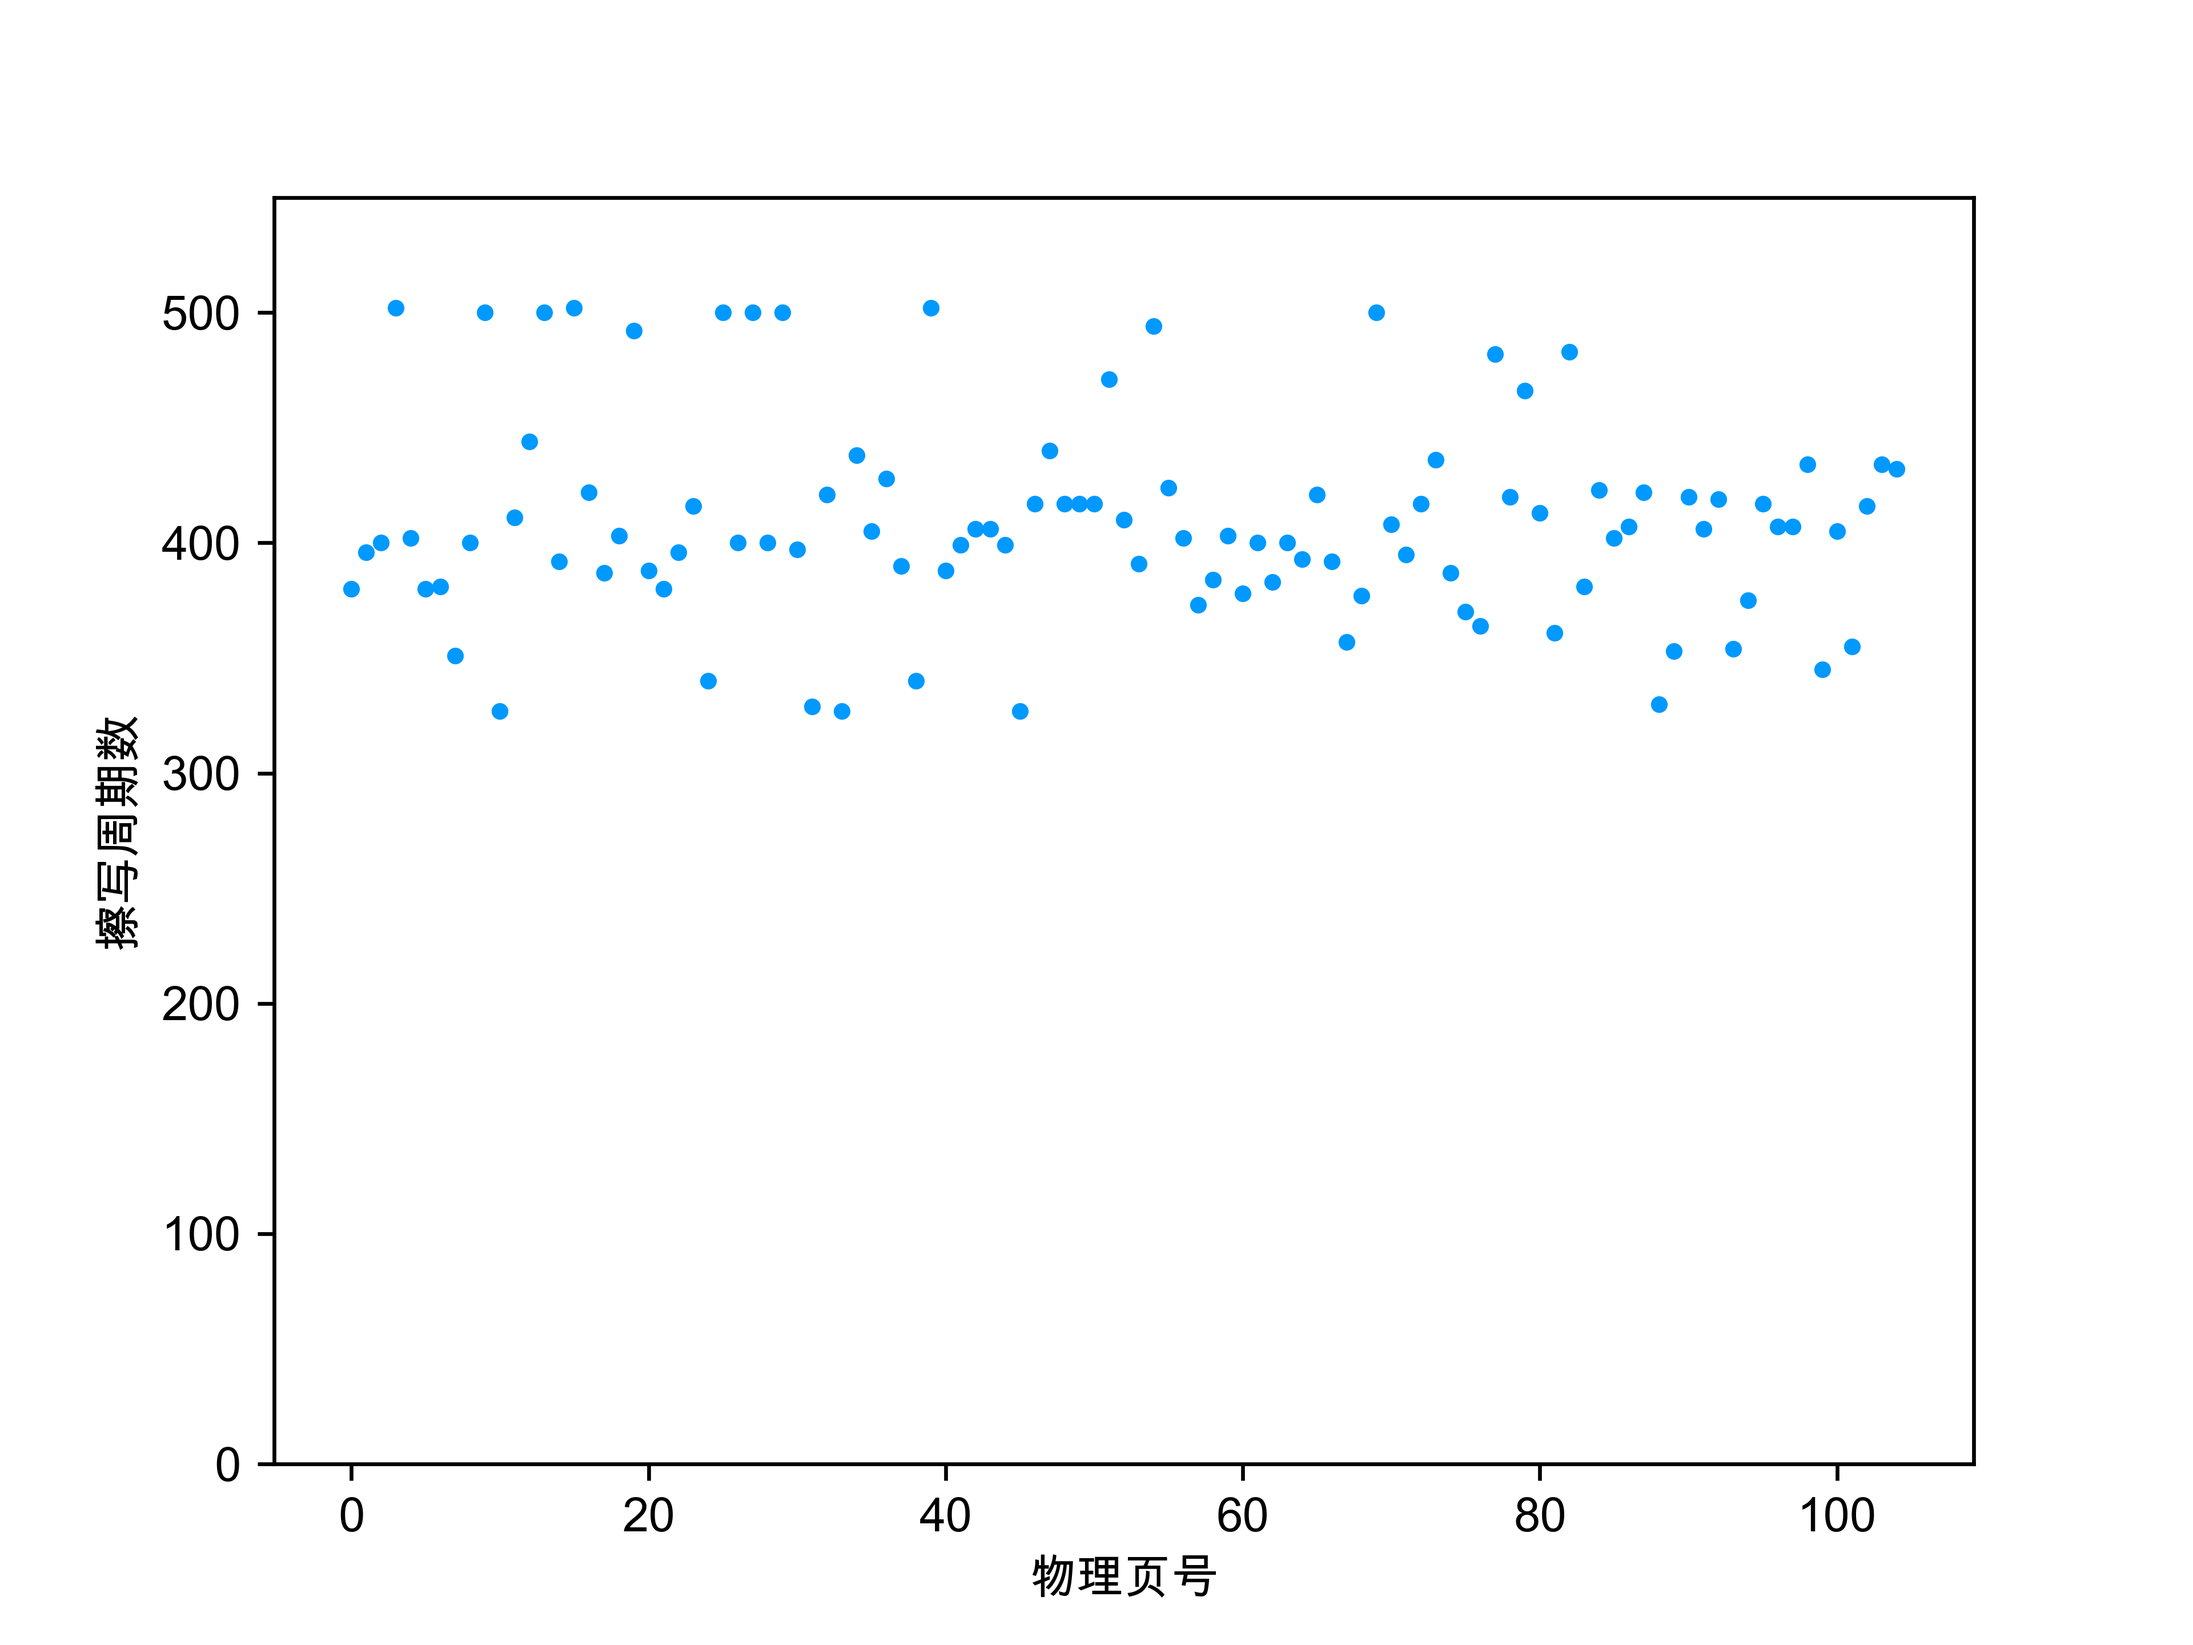
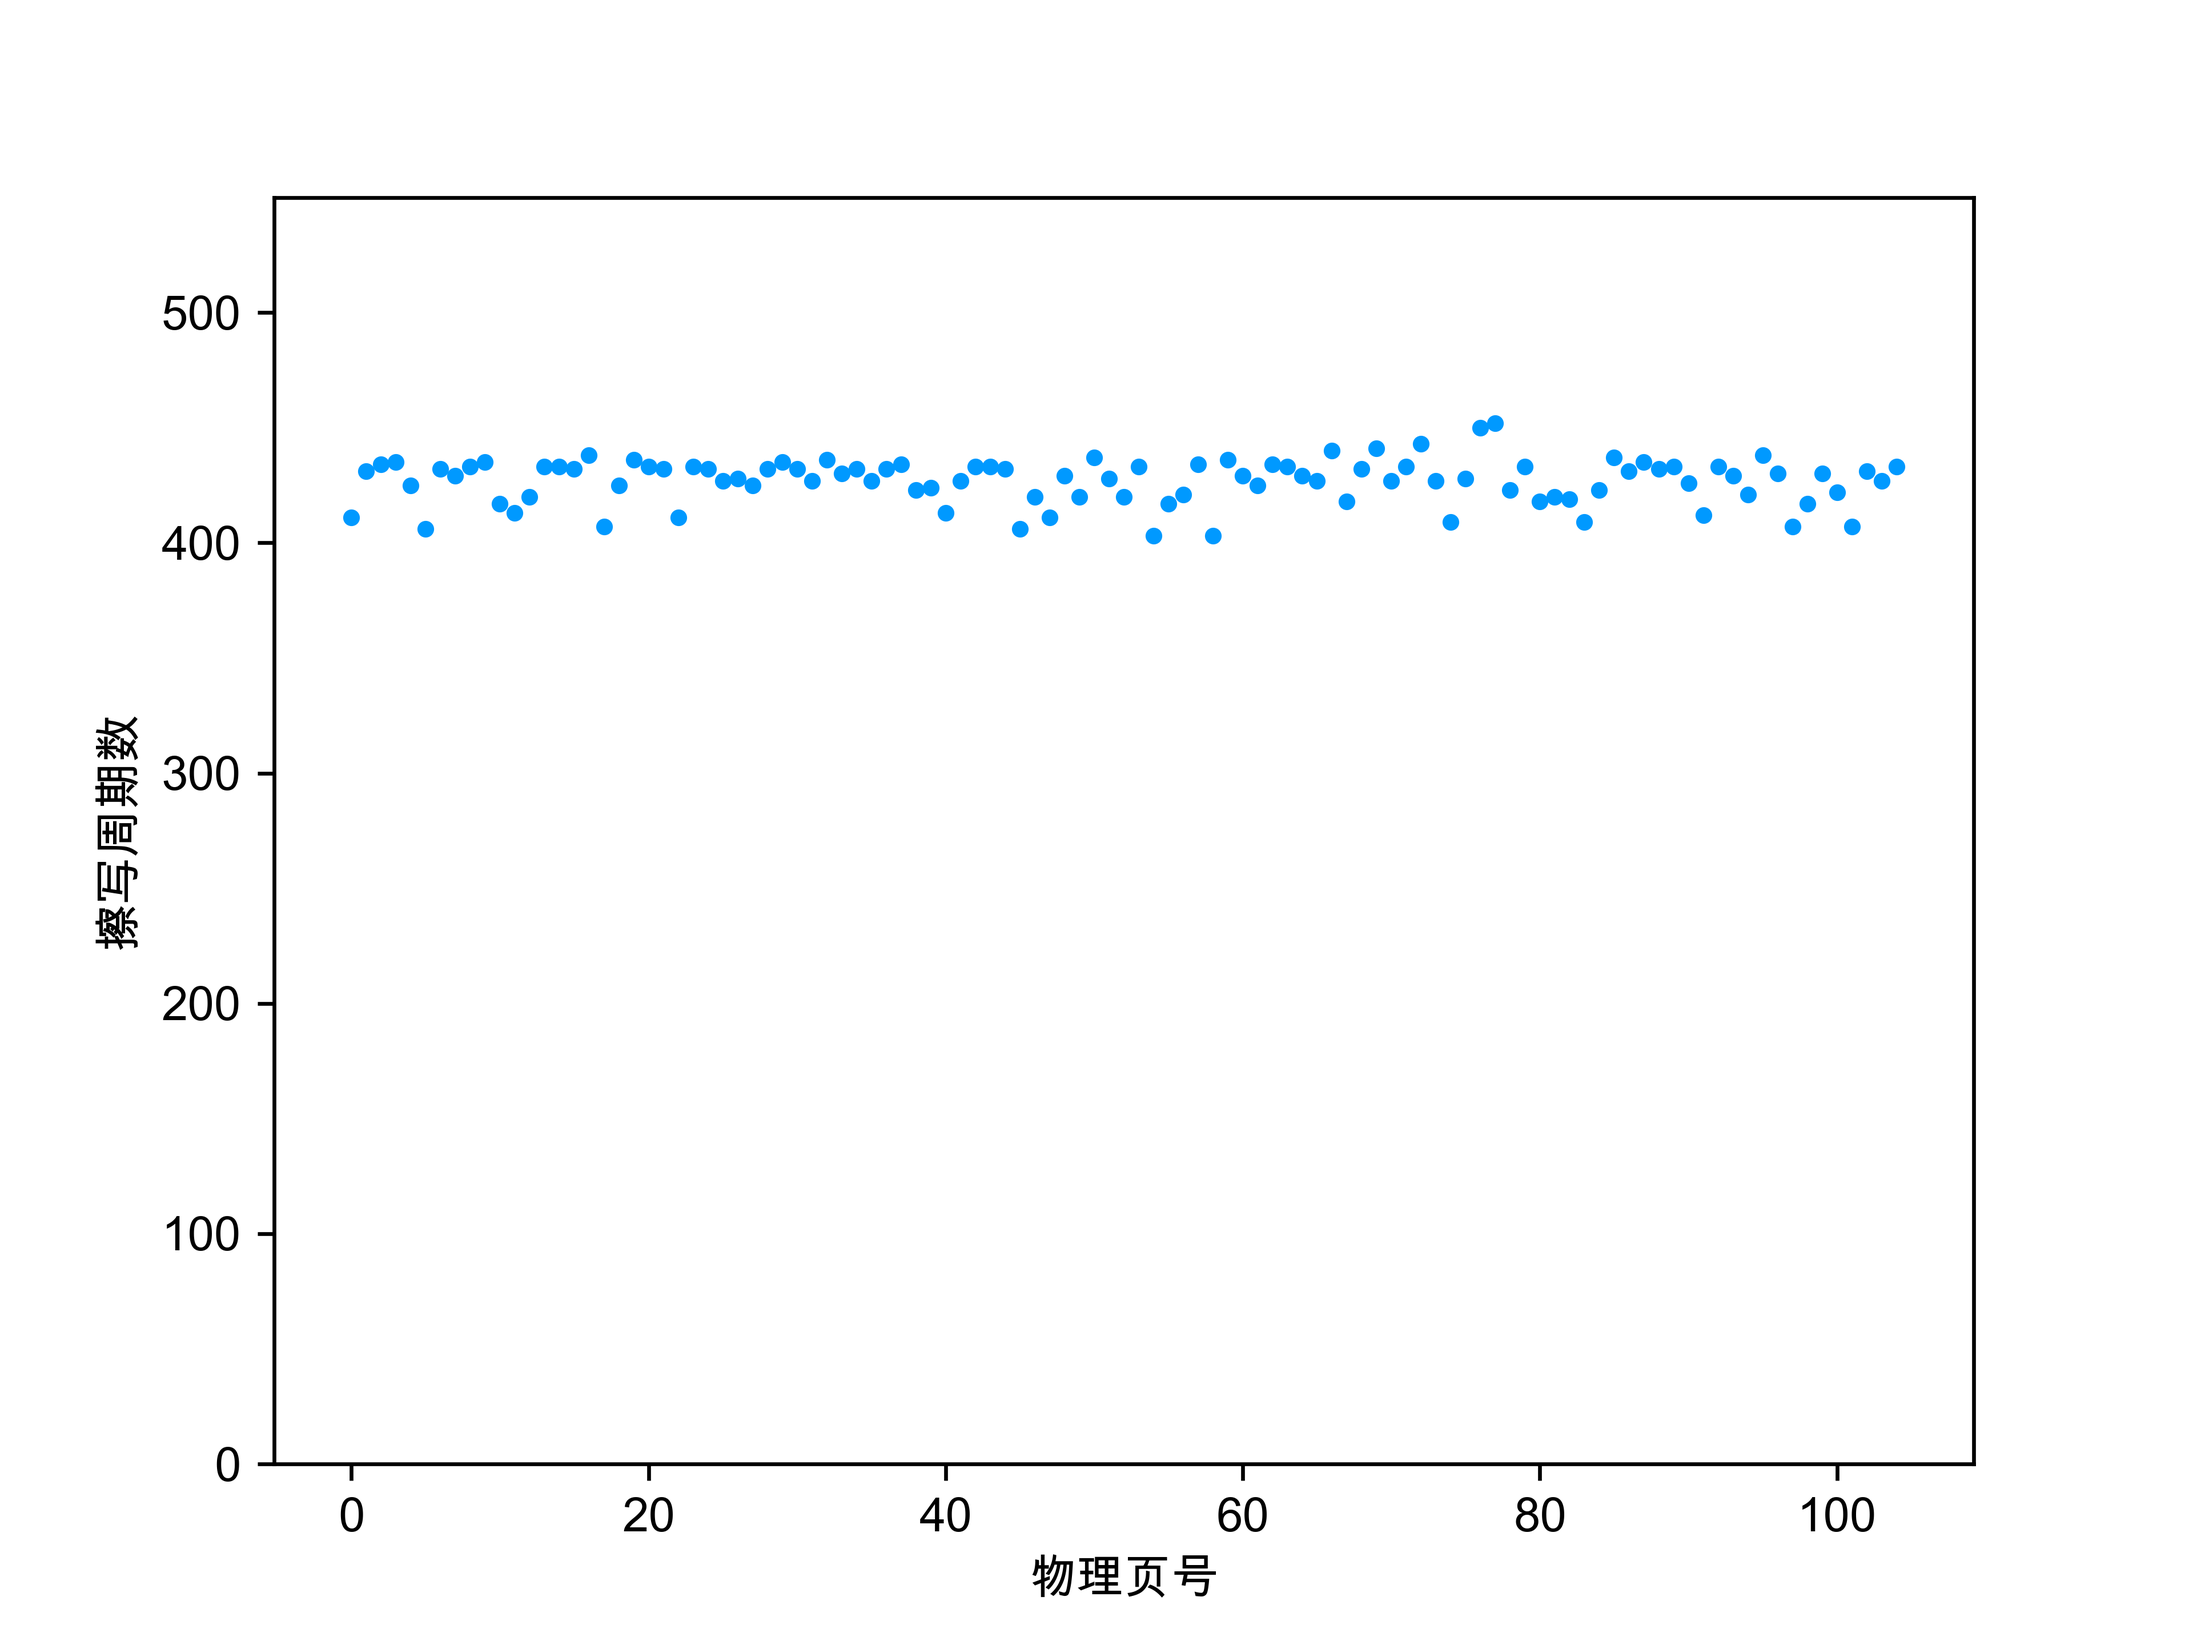
update T1&&T2 整体测试结果

Changed region(s): [[0.1562, 0.25, 0.875, 0.375], [0.6562, 0.3438, 0.6875, 0.375]]

diff --git a/etl.cc b/etl.cc
@@ -103,16 +103,14 @@ bool ETL::Write(unsigned long long addr, const char* src, int length) {
 	}
 
 	// 如果要禁止磨损均衡，以下代码块需要注释
+	this->performance_statistics_.total_write_cycles++;
+	this->UpdateThreshhold();
 	DataPage datapage(logic_page_size);
 	this->ReadDataPageInfo(start_physical_page_num, &datapage);
-	if (datapage.erase_cycle >= this->page_indurance_)
-		return false;
 	datapage.erase_cycle++;
 	datapage.effective_erase_cycle++;
 	this->dualpool_->TryToUpdatePoolBorder(start_physical_page_num, datapage.erase_cycle,
 					       datapage.effective_erase_cycle);
-	this->UpdateThreshhold();
-	this->performance_statistics_.total_write_cycles++;
 
 	unsigned int data_offset = addr % logic_page_size;
 	if (start_logic_page_num == end_logic_page_num) {
@@ -130,7 +128,10 @@ bool ETL::Write(unsigned long long addr, const char* src, int length) {
 		/* if triggered, exec dual-pool algorithm */
 		this->TryToExecDualPoolAlgorithm();
 
-		return true;
+		if (datapage.erase_cycle >= this->page_indurance_)
+			return false;
+		else
+			return true;
 	}
 	unsigned long long next_page_start_addr = (start_logic_page_num + 1) * logic_page_size;
 	unsigned int	   front_len		= next_page_start_addr - addr;
@@ -509,6 +510,10 @@ void ETL::PrintDataPage(DataPage* datapage) {
 }
 
 void ETL::UpdateThreshhold() {
+	// fixed th
+	// this->dualpool_->SetThreshhold(80);
+	// return;
+
 	// 默认下不开启动态阈值
 	if (this->page_indurance_ == 0 || this->dualpool_->GetThreshhold() <= 10)
 		return;

diff --git a/matplot/main.py b/matplot/main.py
@@ -69,15 +69,15 @@ def main():
     #     mf.makeBarEdgecachedpVsOrigindpVSWithoutDP([486.54, 1.0099, 387, 305], [
     #         237.20, 1.0373, 392, 2100], [21600.23, 1.0000, 423, 0], 30000, True)
 
-    #     mf.makeBarPageEC(data.page_cnt)
+    mf.makeBarPageEC(data.page_cnt)
 
     #     mf.make3BarFigurePageEC(
     #         data.page_cnt_nowl, data.page_cnt_dp, data.page_cnt_pdp)
 
-    mf.drawPlotByStandardDeviation(
-        data.PDP500_cycles, data.PDP500_standard_deviation, data.TH20_cycles, data.TH20_standard_deviation,
-        data.TH50_cycles, data.TH50_standard_deviation, data.TH80_cycles, data.TH80_standard_deviation,
-        data.TH110_cycles, data.TH110_standard_deviation,  "PDPVsDPByStandarddeviation")
+    #     mf.drawPlotByStandardDeviation(
+    #         data.PDP500_cycles, data.PDP500_standard_deviation, data.TH20_cycles, data.TH20_standard_deviation,
+    #         data.TH50_cycles, data.TH50_standard_deviation, data.TH80_cycles, data.TH80_standard_deviation,
+    #         data.TH110_cycles, data.TH110_standard_deviation,  "PDPVsDPByStandarddeviation")
 
     #     mf.drawPlotByOverheadratio(data.PDP500_cycles, data.PDP500_overhead_ratio, data.TH20_cycles, data.TH20_overhead_ratio,
     #                                data.TH50_cycles, data.TH50_overhead_ratio, data.TH80_cycles, data.TH80_overhead_ratio,

diff --git a/etltest.cc b/etltest.cc
@@ -263,13 +263,18 @@ void TestRandomWrite(unsigned int write_cycle) {
 	ETLPerformance ep(etl);
 	ep.StartTimer();
 
+	bool res = true;
 	for (unsigned int i = 0; i < write_cycle; ++i) {
 		char* write_buff = "01234567890123456789";
-		etl->Write(GetZipfData()[ i % GetZipfDataLen() ], write_buff, strlen(write_buff));
+		res = etl->Write(GetZipfData()[ i % GetZipfDataLen() ], write_buff, strlen(write_buff));
 		if (i % 100 == 0) {
 			LOG_INFO("round %d \r\n", i);
 			LOG_INFO("thresh hold : %lu \r\n", etl->dualpool_->GetThreshhold());
 		}
+		// if (!res) {
+		// 	LOG_ERROR("run out of life \r\n");
+		// 	break;
+		// }
 	}
 
 	ep.PrintInfo();
@@ -283,7 +288,7 @@ void TestRandomWrite(unsigned int write_cycle) {
 	}
 	printf("}\n");
 
-	// etl->dualpool_->PrintPool();
+	etl->dualpool_->PrintPool();
 	printf("thresh_hold : %u ,hotpool size : %u , coldpool size : %u \r\n",
 	       etl->GetInfoPage().thresh_hold, etl->dualpool_->GetPoolSize(HOTPOOL),
 	       etl->dualpool_->GetPoolSize(COLDPOOL));

diff --git a/main.cc b/main.cc
@@ -61,8 +61,8 @@ int main(void) {
 	// ETLWriteAndReadTest();
 	// ETLFullWriteAndReadFullTest();
 	// DualPoolTeste();
-	TestSingleHotPage(15000);
-	// TestRandomWrite(15000);
+	// TestSingleHotPage(15000);
+	TestRandomWrite(15000);
 	// CheckReadWite();
 	// TestHotPageToColdPage(1000);
 	// SampleSimulation(200);

diff --git a/experiment-record.md b/experiment-record.md
@@ -441,7 +441,7 @@ T1,对同一个逻辑地址进行 15,000 次写入操作，每次写入长度 20
 [INFO performance.cc:65] write speed            386 B/sec
 [INFO performance.cc:66] spend time             776 sec =>  901
 [INFO performance.cc:67] overhead ratio         1.009900
-[INFO performance.cc:68] standard deviation     495.722720
+[INFO performance.cc:68] standard deviation     495.722720  => 21010.1800
 [INFO performance.cc:69] RAM cost               540 B
 [INFO performance.cc:70] dualcache hit rate     0.999933        
 [INFO performance.cc:71] total write cycles : 30000 
@@ -449,21 +449,21 @@ T1,对同一个逻辑地址进行 15,000 次写入操作，每次写入长度 20
 [INFO performance.cc:73] ------------ performance ---------------
 { 250, 251, 382, 247, 378, 247, 374, 245, 372, 245, 368, 243, 364, 243, 362, 240, 358, 240, 354, 238, 352, 238, 348, 236, 344, 236, 342, 234, 338, 234, 334, 232, 332, 232, 328, 229, 326, 229, 322, 227, 320, 227, 316, 225, 314, 225, 310, 223, 308, 223, 306, 221, 302, 221, 300, 219, 296, 219, 294, 217, 292, 217, 288, 323, 286, 319, 284, 325, 280, 325, 278, 324, 276, 324, 272, 323, 270, 323, 268, 322, 266, 322, 262, 321, 260, 321, 258, 321, 256, 320, 254, 320, 250, 320, 248, 319, 246, 319, 244, 318, 242, 390, 317, 386, 318 } 
 
-T2,随机地址写入,15,000 次写入操作
+T2,随机地址写入,15,000 次写入操作,a=0.2
 
 [INFO performance.cc:64] ++++++++++++ performance +++++++++++++++
 
-[INFO performance.cc:65] write speed            262 B/sec
-[INFO performance.cc:66] spend time             1106 sec => 1239
-[INFO performance.cc:67] overhead ratio         1.012652
-[INFO performance.cc:68] standard deviation     444.667280
+[INFO performance.cc:65] write speed            222 B/sec
+[INFO performance.cc:66] spend time             1214 sec        =>1349 sec
+[INFO performance.cc:67] overhead ratio         1.025536
+[INFO performance.cc:68] standard deviation     100.354370  => 6218.522400
 [INFO performance.cc:69] RAM cost               540 B
-[INFO performance.cc:70] dualcache hit rate     0.827287        
-[INFO performance.cc:71] total write cycles : 42365 
-[INFO performance.cc:72] extra write cycles : 536 
+[INFO performance.cc:70] dualcache hit rate     -nan    
+[INFO performance.cc:71] total write cycles : 43703 
+[INFO performance.cc:72] extra write cycles : 1116 
 [INFO performance.cc:73] ------------ performance ---------------
 
-{ 380, 396, 400, 502, 402, 380, 381, 351, 400, 500, 327, 411, 444, 500, 392, 502, 422, 387, 403, 492, 388, 380, 396, 416, 340, 500, 400, 500, 400, 500, 397, 329, 421, 327, 438, 405, 428, 390, 340, 502, 388, 399, 406, 406, 399, 327, 417, 440, 417, 417, 417, 471, 410, 391, 494, 424, 402, 373, 384, 403, 378, 400, 383, 400, 393, 421, 392, 357, 377, 500, 408, 395, 417, 436, 387, 370, 364, 482, 420, 466, 413, 361, 483, 381, 423, 402, 407, 422, 330, 353, 420, 406, 419, 354, 375, 417, 407, 407, 434, 345, 405, 355, 416, 434, 432, }
+[ 411, 431, 434, 435, 425, 406, 432, 429, 433, 435, 417, 413, 420, 433, 433, 432, 438, 407, 425, 436, 433, 432, 411, 433, 432, 427, 428, 425, 432, 435, 432, 427, 436, 430, 432, 427, 432, 434, 423, 424, 413, 427, 433, 433, 432, 406, 420, 411, 429, 420, 437, 428, 420, 433, 403, 417, 421, 434, 403, 436, 429, 425, 434, 433, 429, 427, 440, 418, 432, 441, 427, 433, 443, 427, 409, 428, 450, 452, 423, 433, 418, 420, 419, 409, 423, 437, 431, 435, 432, 433, 426, 412, 433, 429, 421, 438, 430, 407, 417, 430, 422, 407, 431, 427, 433]
 
 缓存映射表测试:
 
